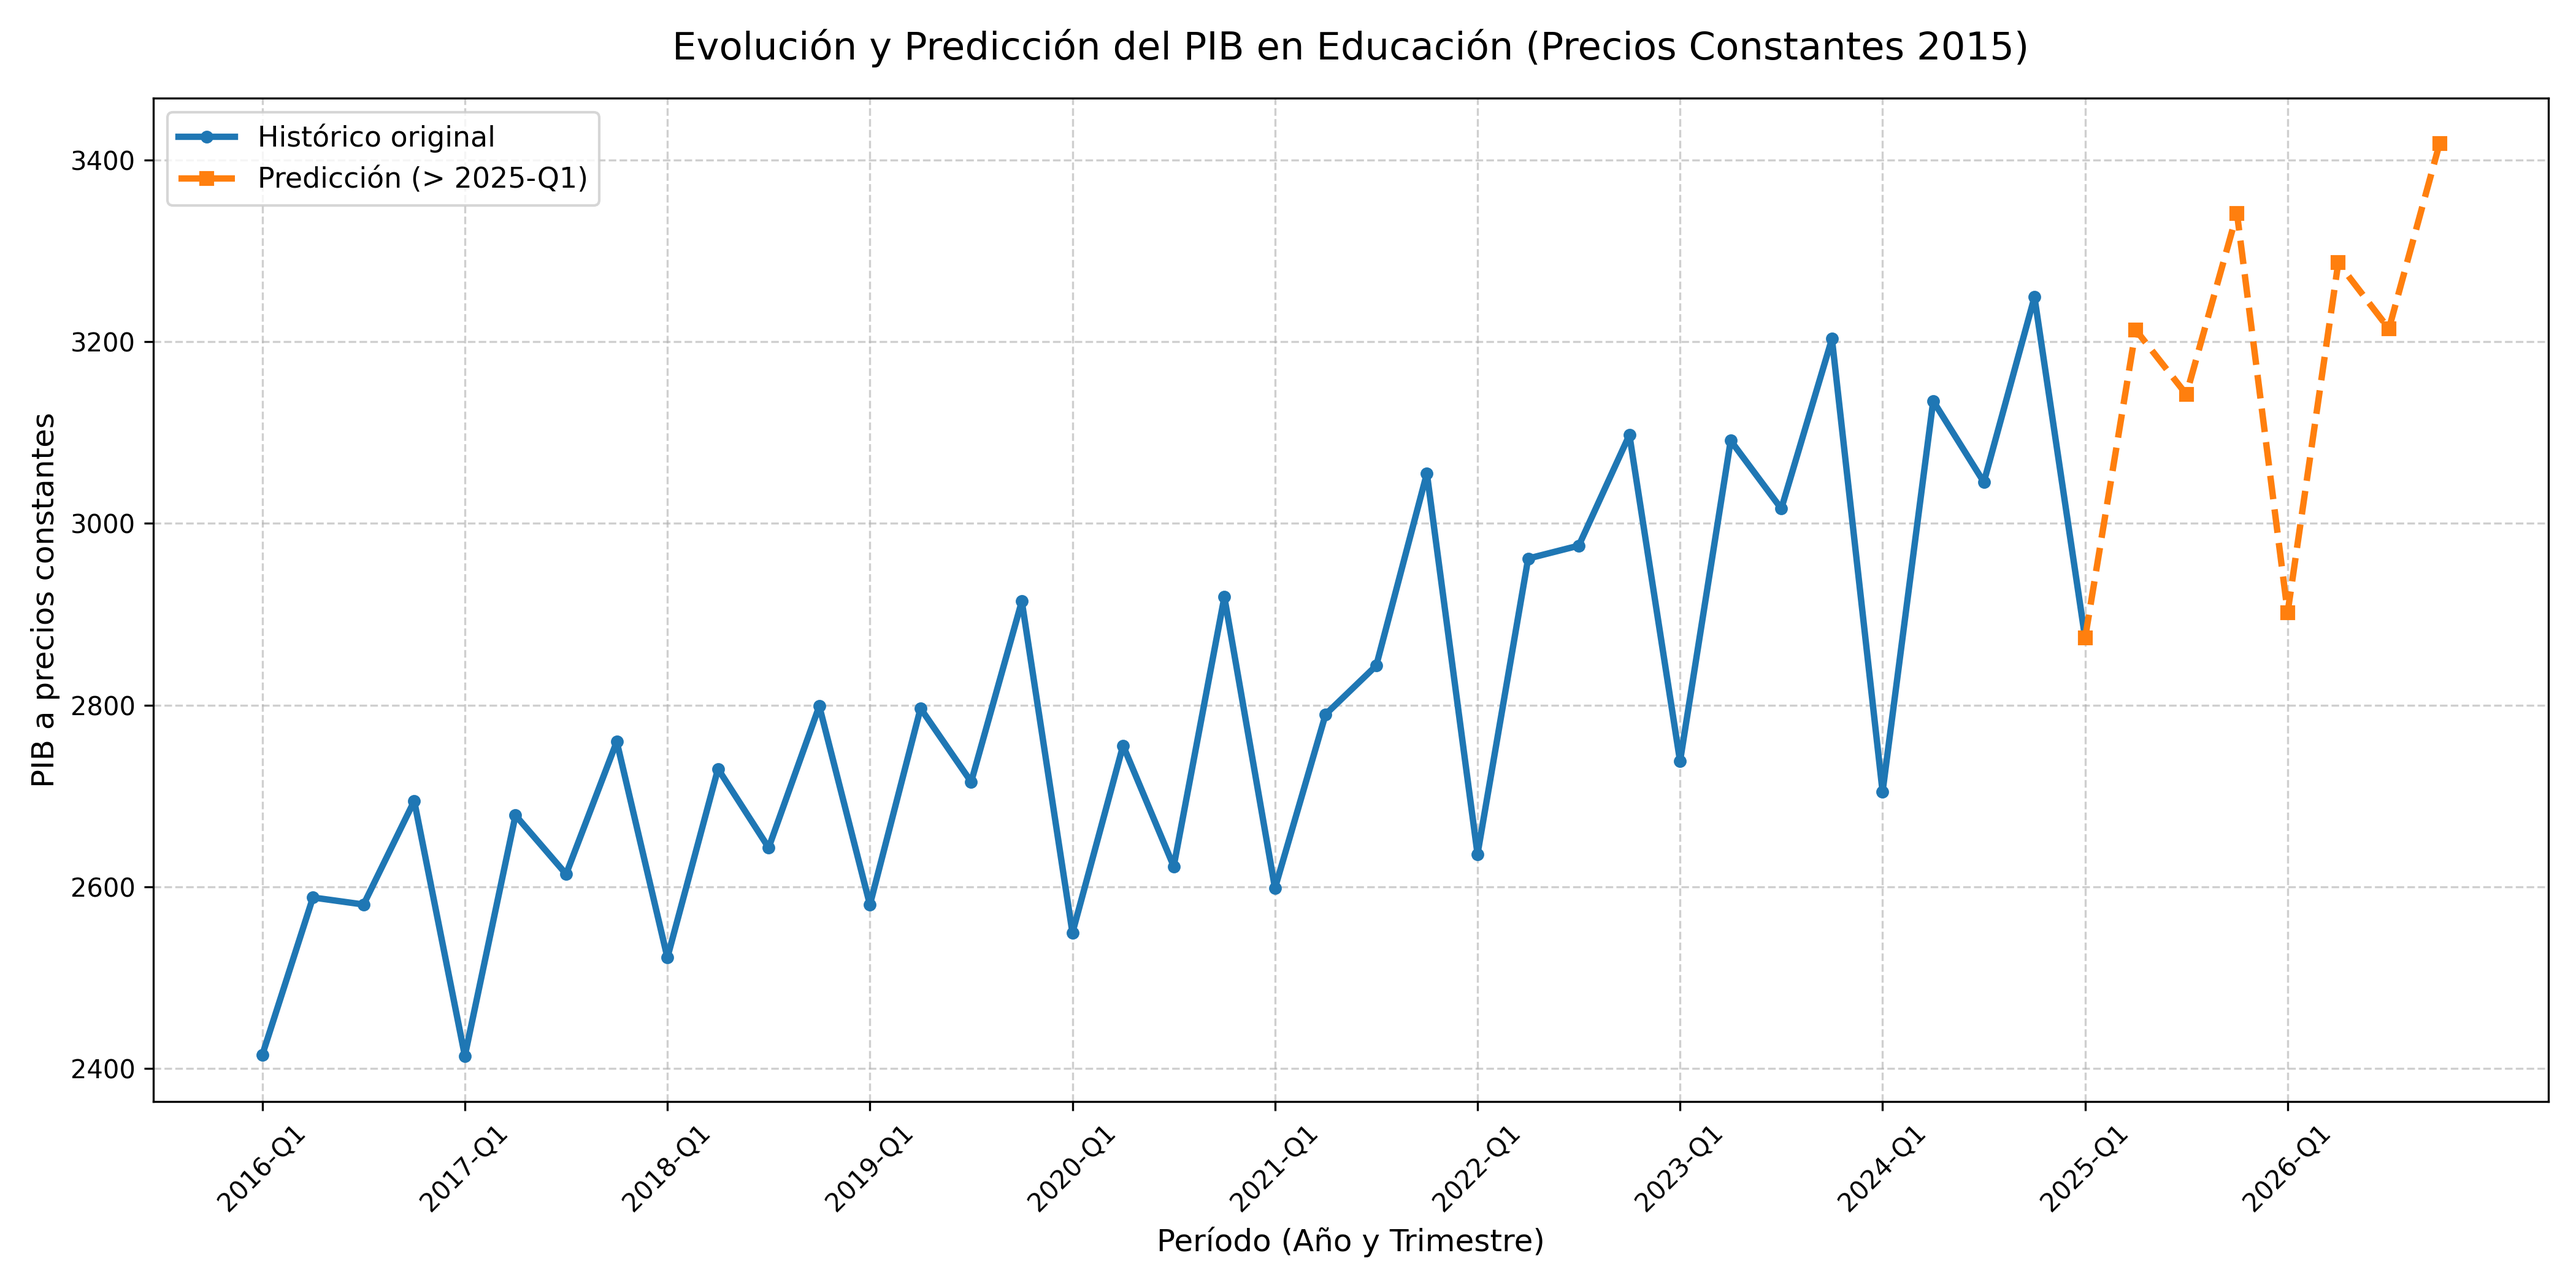
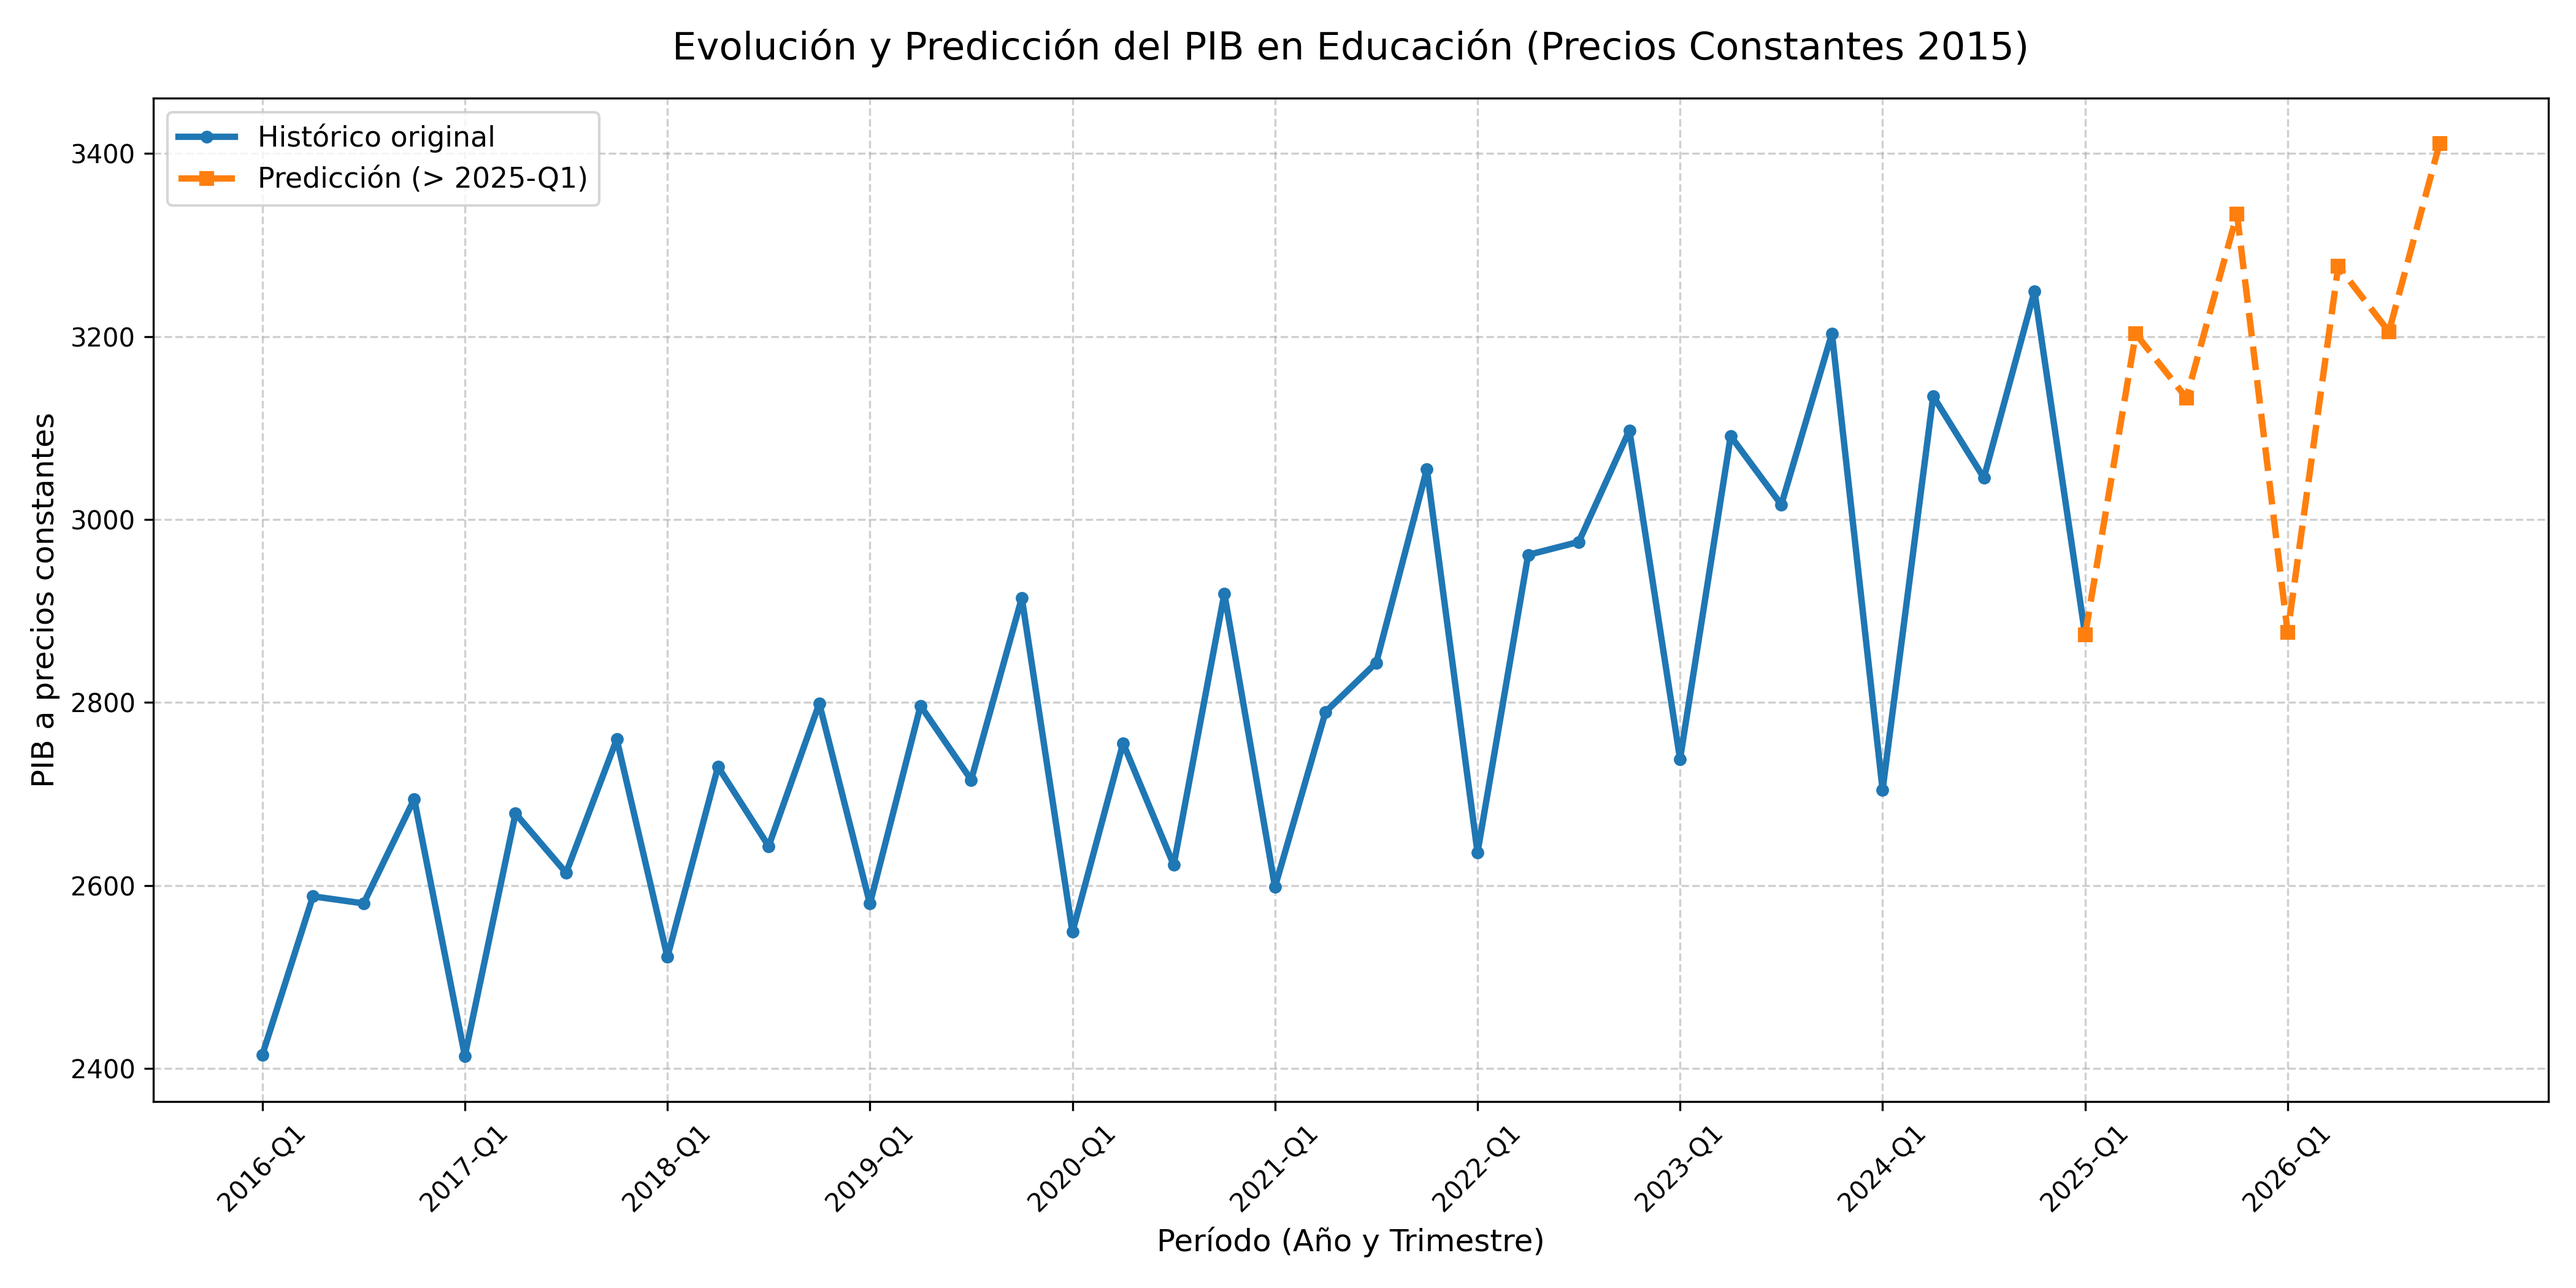
Super entrenado

diff --git a/super_train.py b/super_train.py
@@ -1,0 +1,115 @@
+import pandas as pd
+import numpy as np
+from statsmodels.tsa.holtwinters import ExponentialSmoothing
+import warnings
+import itertools
+
+# Ignorar advertencias de statsmodels sobre frecuencias inferidas
+warnings.filterwarnings("ignore")
+
+def mape(y_true, y_pred):
+    return np.mean(np.abs((y_true - y_pred) / y_true)) * 100
+
+def grid_search():
+    # Lista para capturar los resultados de la consola
+    output_lines = []
+    
+    def log_print(message):
+        print(message)
+        output_lines.append(message)
+
+    # Cargar datos limpios
+    df = pd.read_csv('data_cleaned.csv')
+    
+    # Limpiar columnas
+    df['Year'] = df['Periodo'].astype(str).str[:4].astype(int)
+    df['Month'] = (df['Trimestre'] - 1) * 3 + 1
+    df['Date'] = pd.to_datetime({'year': df['Year'], 'month': df['Month'], 'day': 1})
+    
+    # Ordenar y definir el índice
+    df = df.sort_values('Date')
+    df.set_index('Date', inplace=True)
+    df.index.freq = pd.infer_freq(df.index) or 'QS-JAN'
+    
+    ts = df['PIB a precios constantes del 2015']
+    
+    # Entrenar desde 2016-1 hasta 2023-2
+    train_end_date = '2023-04-01'
+    train = ts.loc[:train_end_date]
+    
+    # Obtener los próximos 7 periodos como conjunto de prueba
+    test = ts.loc[train.index[-1]:].iloc[1:8]
+    
+    log_print(f"Tamano del set de entrenamiento: {len(train)} trimestres (hasta {train.index[-1].year}-Q{train.index[-1].quarter})")
+    log_print(f"Tamano del set de prueba: {len(test)} trimestres (desde {test.index[0].year}-Q{test.index[0].quarter} hasta {test.index[-1].year}-Q{test.index[-1].quarter})")
+    log_print("-" * 50)
+    
+    # Definir un grid de parámetros para (alpha, beta, gamma)
+    alphas = [0.1, 0.3, 0.5, 0.7, 0.9]
+    betas = [0.1, 0.3, 0.5, 0.7, 0.9]
+    gammas = [0.1, 0.3, 0.5, 0.7, 0.9]
+    
+    param_grid = list(itertools.product(alphas, betas, gammas))
+    log_print(f"Iniciando Grid Search con {len(param_grid)} combinaciones posibles por modelo...")
+    log_print(f"Cota Superior iterando sobre alphas, betas y gammas de {min(alphas)} a {max(alphas)}")
+    log_print("-" * 50)
+    
+    best_aditivo = {'mape': float('inf'), 'params': None}
+    best_multiplicativo = {'mape': float('inf'), 'params': None}
+    
+    # Configuración de base Aditiva
+    modelo_base_aditivo = ExponentialSmoothing(train, trend='add', seasonal='add', seasonal_periods=4)
+    # Configuración de base Multiplicativa
+    modelo_base_multiplicativo = ExponentialSmoothing(train, trend='mul', seasonal='mul', seasonal_periods=4)
+    
+    for alpha, beta, gamma in param_grid:
+        # Evaluar Aditivo
+        try:
+            fit_add = modelo_base_aditivo.fit(smoothing_level=alpha, smoothing_trend=beta, smoothing_seasonal=gamma, optimized=False)
+            pred_add = fit_add.forecast(7)
+            mape_add = mape(test, pred_add)
+            
+            if mape_add < best_aditivo['mape']:
+                best_aditivo['mape'] = mape_add
+                best_aditivo['params'] = (alpha, beta, gamma)
+        except Exception:
+            pass
+            
+        # Evaluar Multiplicativo
+        try:
+            fit_mul = modelo_base_multiplicativo.fit(smoothing_level=alpha, smoothing_trend=beta, smoothing_seasonal=gamma, optimized=False)
+            pred_mul = fit_mul.forecast(7)
+            mape_mul = mape(test, pred_mul)
+            
+            if mape_mul < best_multiplicativo['mape']:
+                best_multiplicativo['mape'] = mape_mul
+                best_multiplicativo['params'] = (alpha, beta, gamma)
+        except Exception:
+            pass
+
+    log_print("Mejor resultado Modelo Aditivo (Aditivo - Aditivo):")
+    log_print(f"  MAPE:  {best_aditivo['mape']:.3f}%")
+    log_print(f"  Alpha (nivel):      {best_aditivo['params'][0]}")
+    log_print(f"  Beta (tendencia):   {best_aditivo['params'][1]}")
+    log_print(f"  Gamma (estacional): {best_aditivo['params'][2]}")
+    log_print("-" * 50)
+    
+    log_print("Mejor resultado Modelo Multiplicativo (Multiplicativo - Multiplicativo):")
+    log_print(f"  MAPE:  {best_multiplicativo['mape']:.3f}%")
+    log_print(f"  Alpha (nivel):      {best_multiplicativo['params'][0]}")
+    log_print(f"  Beta (tendencia):   {best_multiplicativo['params'][1]}")
+    log_print(f"  Gamma (estacional): {best_multiplicativo['params'][2]}")
+    log_print("-" * 50)
+    
+    if best_aditivo['mape'] < best_multiplicativo['mape']:
+        log_print("=> El modelo con configuracion ADITIVA y parametros manuales obtuvo el menor MAPE optimizado.")
+    else:
+        log_print("=> El modelo con configuracion MULTIPLICATIVA y parametros manuales obtuvo el menor MAPE optimizado.")
+
+    # Guardar en archivo .txt
+    with open('resultados_superentrenamiento.txt', 'w') as f:
+        f.write('\n'.join(output_lines))
+    print(f"\nResultados del Grid Search guardados exitosamente en 'resultados_superentrenamiento.txt'")
+
+if __name__ == "__main__":
+    grid_search()

diff --git a/predict.py b/predict.py
@@ -23,9 +23,9 @@ def make_prediction():
     ts = df['PIB a precios constantes del 2015']
     
     print("Entrenando modelo Holt-Winters (Multiplicativo) con todos los datos históricos...")
-    # Entrenar el modelo con configuración Multiplicativa (según resultados del train.py)
+    # Entrenar el modelo con configuración Multiplicativa (según resultados del super_train.py)
     modelo = ExponentialSmoothing(ts, trend='mul', seasonal='mul', seasonal_periods=4)
-    modelo_ajustado = modelo.fit()
+    modelo_ajustado = modelo.fit(smoothing_level=0.1, smoothing_trend=0.1, smoothing_seasonal=0.5, optimized=False)
     
     # 3. Predecir los próximos 7 periodos (de 2025-2 a 2026-4)
     pasos = 7
